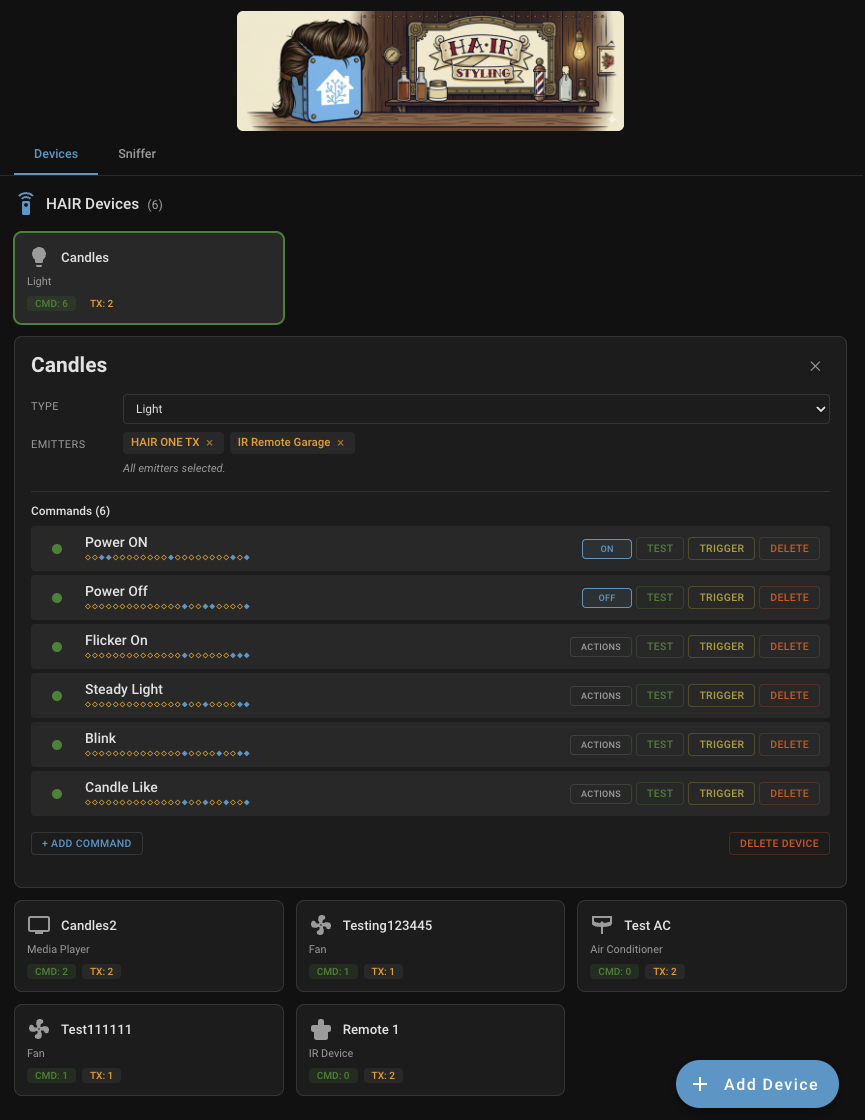
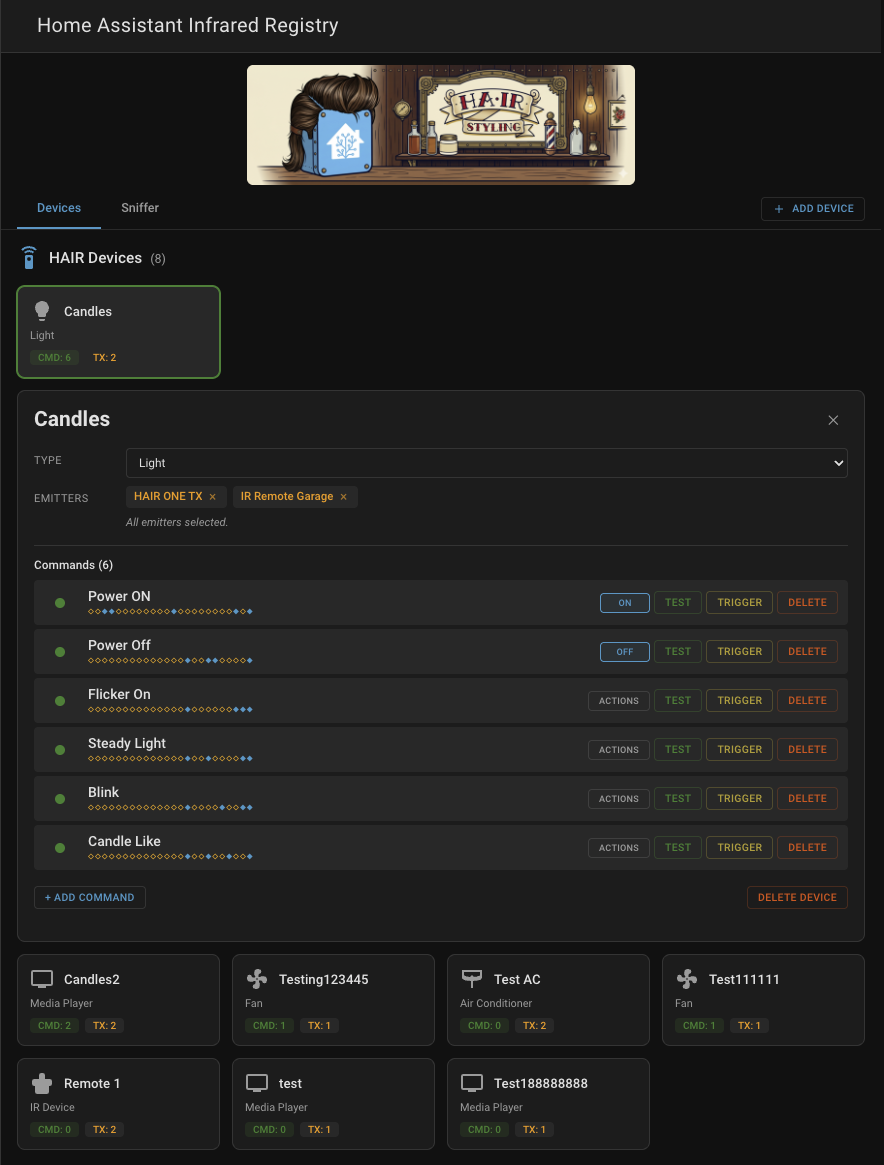
Restructure README: reorder sections, table screenshots, ESPHome RX prominence
- Move Screenshots, Requirements, Installation, Setup above Features
- Add 'No YAML*' footnote linking to ESPHome receiver bridge
- Layout screenshots in markdown tables with column titles
- Replace devices-overview and device-detail screenshots with v0.1.2 UI
- Fix 'floating Add Device button' reference to 'tab bar button'
- Move old screenshots to images/internal/trash/

diff --git a/README.md b/README.md
@@ -6,7 +6,9 @@
 
 A custom Home Assistant integration that provides a full admin interface for infrared device management. Built on HA's native `infrared` platform (2026.4+), HAIR handles capturing, organizing, and controlling IR commands through a single sidebar panel at `/hair`.
 
-No YAML. No code. Works with any IR proxy hardware (ESPHome, Broadlink, etc.).
+No YAML. No code. Works with any IR proxy hardware (ESPHome, Broadlink, etc.).\*
+
+<sub>\* ESPHome receivers require a small YAML bridge until HA ships native IR receive support. See [ESPHome Receiver Setup](#esphome-receiver-setup).</sub>
 
 ## Why HAIR?
 
@@ -20,112 +22,19 @@ HAIR also introduces signal fingerprinting using short/long (S/L) pulse-duration
 
 As HA's IR ecosystem matures (receiver entities are expected in 2026.6-2026.7), HAIR will grow alongside it. The goal is to be the go-to admin tool for anyone with IR-controlled devices in their home.
 
-## Features
-
-**Signal Sniffer** - Passive IR listener that runs in the background. Every IR transmission your receivers detect is captured, fingerprinted, and grouped by source device. Signals are deduplicated automatically: press the same button ten times and you see one signal with a hit count of ten. Repeat frames (sent when you hold a button down) are filtered out so only actual command signals appear. The Sniffer shows you what remotes are active in your home and which buttons are being pressed, all in real time.
-
-**Device Management** - Create profiles for your IR-controlled devices (TVs, ACs, fans, lights, switches, screens). Assign captured signals as named commands from a device-type-aware template list, or enter custom names. Each device gets native HA entities automatically based on its type.
-
-**Action Mapping** - Explicitly bind IR commands to HA entity features through a popover UI. When you map a command to "Volume Up," the media_player entity knows to call that command when the HA volume service is used. Features are only exposed when commands are mapped, so your entities stay clean.
-
-**Triggers** - Turn any IR signal into a native HA event entity. Create a trigger from a learned device command or from an unknown signal in the Sniffer. Each trigger gets an `event` entity under a virtual "HAIR Triggers" device, firing an `ir_command_received` event whenever the matching signal is received. Use triggers to build HA automations that react to physical remote presses (e.g., pressing a TV power button also turns off the room lights). A configurable "min hits" threshold (minimum button presses) lets you require multiple presses within a 5-second window before the trigger fires, which is useful for preventing accidental activations. The Devices tab shows all active triggers with real-time fire animations.
-
-**Emitter Routing & Broadcast Control** - Assign one or more IR emitters to each device with explicit control over how commands are broadcast. Lock a device to a single emitter for room-scoped control (an AC pinned to the bedroom emitter so commands never leak to the living room), or assign multiple emitters for a wide broadcast (a single "TV Power" command fires through emitters in every room simultaneously). Routing is configured per-device, so you can mix tight per-room targeting for some devices with whole-house broadcast for others.
-
-**Command Templates** - Guided setup suggests which commands to capture based on device type. Select from predefined names (Power On, Volume Up, Mode: Cool, etc.) or enter custom names for anything not in the list.
-
-## Entity Platforms
-
-Devices automatically get native HA entities based on their type:
-
-| Type | HA Entity | Controls |
-|------|-----------|----------|
-| Media Player | `media_player` | Power, volume, mute, source, channels, navigation, transport |
-| AC | `climate` | HVAC modes, temperature presets, fan modes |
-| Fan | `fan` | Power, speed stepping, oscillate |
-| Light | `light` | On/off, brightness stepping |
-| Switch | `switch` | On/off |
-| Screen | `cover` | Open, close, stop |
-| Other | `remote` | Generic IR command sender |
-
-Every device also gets a `remote` entity for sending arbitrary Pronto hex codes and a `button` entity for each learned command. The button entities give you one-tap access to any IR command from dashboards, automations, or scripts, regardless of device type.
-
-Triggers create `event` entities under a shared "HAIR Triggers" device. Each trigger entity fires an `ir_command_received` event when its signal is detected, making it available as an automation trigger in HA's automation editor.
-
-Entity features are driven by explicit action mappings. A media_player only exposes volume control if you map commands to the volume actions. This keeps your entities clean and avoids exposing features your remote doesn't support.
-
 ## Screenshots
 
-<p align="center">
-  <img src="images/screenshots/devices-overview.png" alt="Devices overview showing HAIR Devices, Triggers, Emitters, Receivers, and Proxies" width="880" />
-</p>
+| Devices Overview | Device Detail |
+|:---:|:---:|
+| ![Devices overview showing HAIR Devices, Triggers, Emitters, Receivers, and Proxies](images/screenshots/devices-overview.png) | ![Device detail with learned commands, S/L fingerprints, and trigger buttons](images/screenshots/device-detail.png) |
 
-<p align="center">
-  <img src="images/screenshots/device-detail.png" alt="Device detail with learned commands, S/L fingerprints, and trigger buttons" width="430" />
-  <img src="images/screenshots/action-mapping.png" alt="Action mapping popover for binding commands to HA entity features" width="430" />
-</p>
+| Action Mapping | Sniffer |
+|:---:|:---:|
+| ![Action mapping popover for binding commands to HA entity features](images/screenshots/action-mapping.png) | ![Sniffer showing captured signals with S/L diamond fingerprints, trigger buttons, and hit counts](images/screenshots/sniffer-signals.png) |
 
-<p align="center">
-  <img src="images/screenshots/sniffer-signals.png" alt="Sniffer showing captured signals with S/L diamond fingerprints, trigger buttons, and hit counts" width="880" />
-</p>
-
-<p align="center">
-  <img src="images/screenshots/assign-dialog.png" alt="Assign dialog for mapping a captured signal to a device command" width="280" />
-  <img src="images/screenshots/trigger-dialog.png" alt="Create Trigger dialog with S/L diamond pattern and min hits setting" width="280" />
-  <img src="images/screenshots/promote-dialog.png" alt="Promote dialog for creating a new HAIR device from an unknown remote" width="280" />
-</p>
-
-## Using HAIR
-
-### The Devices Tab
-
-The main view shows five sections:
-
-**HAIR Devices** - Your managed IR device profiles. Each card shows the device name, type, command count, and how many emitters are assigned. Click a device to expand its detail view inline, where you can change the device type, manage emitters, and see all learned commands with their S/L diamond fingerprint patterns. From here you can test commands, delete them, or assign action mappings.
-
-**Triggers** - Active IR triggers that fire HA event entities when their signal is detected. Each trigger card shows the trigger name with a lightning bolt icon. When a trigger fires, the card flashes with an amber glow animation in real time.
-
-**Emitters** - Your IR transmitter hardware (e.g., ESPHome infrared entities). These are the physical IR LEDs that send commands. Each emitter card shows its entity ID and a TX badge.
-
-**Receivers** - Your IR receiver hardware. These feed captured signals into the Sniffer. Each receiver card shows its source integration and an RX badge.
-
-**Proxies** - Hardware devices that have both TX and RX capabilities. A single ESPHome board with an IR LED and an IR receiver shows up here with both TX and RX badges.
-
-### The Sniffer Tab
-
-The Sniffer is a passive listener that shows every IR signal your receivers pick up. Signals are grouped by source device (identified by carrier frequency and preamble fingerprint) and displayed with hit counts, signal counts, and last-seen timestamps.
-
-Each source device row can be expanded to show individual signals with their S/L diamond fingerprint. From here you can assign a signal directly to a HAIR device as a named command, or promote an unknown source device into a full HAIR device profile. Before promoting, click the pencil button on the source device row to give it a custom name — otherwise the new device inherits the auto-generated source name (e.g., "Unknown Remote 1"). Setting the name first means the promoted device lands in your Devices tab already labeled correctly.
-
-Devices already managed by HAIR are tagged with a "HAIR Device" badge. You can dismiss noisy sources (like a neighbor's remote leaking through a window) and bring them back later with the "Show Dismissed" toggle.
-
-### Adding a Device
-
-There are two ways to add a device.
-
-**From scratch:** Click the floating "Add Device" button on the Devices tab. Enter a name, pick a device type, and select which IR emitters should broadcast commands for this device. HAIR creates the device profile and the corresponding HA entities immediately.
-
-**From the Sniffer (promote an unknown source):** When HAIR detects a remote it doesn't recognize, it appears in the Sniffer as an unknown source device. Click the pencil button on the source row to give it a custom name first, then promote it to a full HAIR device. Setting the name before promoting means your new device shows up in the Devices tab already labeled the way you want it, instead of carrying the auto-generated "Unknown Remote N" name forward. This path is ideal when you have the physical remote in hand and want to capture its signals first.
-
-### Learning Commands
-
-Navigate to the Sniffer tab and press buttons on your physical remote. HAIR captures each signal in real time. Expand the source device row, then click on a signal to assign it to one of your HAIR devices. Pick a command name from the device-type-aware template list (e.g., "Power On," "Volume Up," "Mode: Cool") or enter a custom name.
-
-### Action Mapping
-
-After learning commands, open a device's detail view and click the "ACTIONS" badge on any command row. A popover shows all available actions for that device type. Pick an action to bind it to that command. For example, mapping "Power On" to the `turn_on` action means the HA media_player's power button will fire that IR command. Actions already mapped to other commands are shown with their current assignment so you can reassign with a single click.
-
-### Triggers
-
-Triggers let you use incoming IR signals as automation triggers in Home Assistant. There are two ways to create a trigger.
-
-From a device command: expand a device in the Devices tab and click the trigger button on any command row. This creates a trigger linked to that command's signal. If a trigger already exists for that command, the button opens the trigger in edit mode instead.
-
-From the Sniffer: expand an unknown device and click the trigger button on any signal row. This creates a trigger from the raw signal fingerprint, which is useful for signals you want to react to without assigning them to a HAIR device.
-
-Each trigger has a configurable "min hits" value (minimum button presses, 1 to 10) that controls how many times the signal must be received within a 5-second window before the trigger fires. Setting this to 2 or 3 is useful for preventing triggers from firing on stray or accidental presses.
-
-Active triggers appear in the Triggers section at the bottom of the Devices tab. When a trigger fires, its card flashes with an amber glow animation. Each trigger creates an `event` entity (e.g., `event.hair_triggers_tv_power`) that you can use directly in HA's automation editor as a trigger condition.
+| Assign Signal | Create Trigger | Promote Device |
+|:---:|:---:|:---:|
+| ![Assign dialog for mapping a captured signal to a device command](images/screenshots/assign-dialog.png) | ![Create Trigger dialog with S/L diamond pattern and min hits setting](images/screenshots/trigger-dialog.png) | ![Promote dialog for creating a new HAIR device from an unknown remote](images/screenshots/promote-dialog.png) |
 
 ## Requirements
 
@@ -181,6 +90,92 @@ remote_receiver:
 The `on_pronto` trigger catches every IR signal regardless of protocol (NEC, Samsung, Sony, RC-5, etc.) and fires it as a `homeassistant.event` on the HA bus. HAIR's Signal Monitor subscribes to these events automatically.
 
 This bridge is temporary. When HA ships `InfraredReceiverEntity`, HAIR will migrate to the official `infrared.async_subscribe_receiver()` API and no ESPHome YAML customization will be needed. The existing `ir_rf_proxy` TX configuration is unaffected by this change.
+
+## Features
+
+**Signal Sniffer** - Passive IR listener that runs in the background. Every IR transmission your receivers detect is captured, fingerprinted, and grouped by source device. Signals are deduplicated automatically: press the same button ten times and you see one signal with a hit count of ten. Repeat frames (sent when you hold a button down) are filtered out so only actual command signals appear. The Sniffer shows you what remotes are active in your home and which buttons are being pressed, all in real time.
+
+**Device Management** - Create profiles for your IR-controlled devices (TVs, ACs, fans, lights, switches, screens). Assign captured signals as named commands from a device-type-aware template list, or enter custom names. Each device gets native HA entities automatically based on its type.
+
+**Action Mapping** - Explicitly bind IR commands to HA entity features through a popover UI. When you map a command to "Volume Up," the media_player entity knows to call that command when the HA volume service is used. Features are only exposed when commands are mapped, so your entities stay clean.
+
+**Triggers** - Turn any IR signal into a native HA event entity. Create a trigger from a learned device command or from an unknown signal in the Sniffer. Each trigger gets an `event` entity under a virtual "HAIR Triggers" device, firing an `ir_command_received` event whenever the matching signal is received. Use triggers to build HA automations that react to physical remote presses (e.g., pressing a TV power button also turns off the room lights). A configurable "min hits" threshold (minimum button presses) lets you require multiple presses within a 5-second window before the trigger fires, which is useful for preventing accidental activations. The Devices tab shows all active triggers with real-time fire animations.
+
+**Emitter Routing & Broadcast Control** - Assign one or more IR emitters to each device with explicit control over how commands are broadcast. Lock a device to a single emitter for room-scoped control (an AC pinned to the bedroom emitter so commands never leak to the living room), or assign multiple emitters for a wide broadcast (a single "TV Power" command fires through emitters in every room simultaneously). Routing is configured per-device, so you can mix tight per-room targeting for some devices with whole-house broadcast for others.
+
+**Command Templates** - Guided setup suggests which commands to capture based on device type. Select from predefined names (Power On, Volume Up, Mode: Cool, etc.) or enter custom names for anything not in the list.
+
+## Using HAIR
+
+### The Devices Tab
+
+The main view shows five sections:
+
+**HAIR Devices** - Your managed IR device profiles. Each card shows the device name, type, command count, and how many emitters are assigned. Click a device to expand its detail view inline, where you can change the device type, manage emitters, and see all learned commands with their S/L diamond fingerprint patterns. From here you can test commands, delete them, or assign action mappings.
+
+**Triggers** - Active IR triggers that fire HA event entities when their signal is detected. Each trigger card shows the trigger name with a lightning bolt icon. When a trigger fires, the card flashes with an amber glow animation in real time.
+
+**Emitters** - Your IR transmitter hardware (e.g., ESPHome infrared entities). These are the physical IR LEDs that send commands. Each emitter card shows its entity ID and a TX badge.
+
+**Receivers** - Your IR receiver hardware. These feed captured signals into the Sniffer. Each receiver card shows its source integration and an RX badge.
+
+**Proxies** - Hardware devices that have both TX and RX capabilities. A single ESPHome board with an IR LED and an IR receiver shows up here with both TX and RX badges.
+
+### The Sniffer Tab
+
+The Sniffer is a passive listener that shows every IR signal your receivers pick up. Signals are grouped by source device (identified by carrier frequency and preamble fingerprint) and displayed with hit counts, signal counts, and last-seen timestamps.
+
+Each source device row can be expanded to show individual signals with their S/L diamond fingerprint. From here you can assign a signal directly to a HAIR device as a named command, or promote an unknown source device into a full HAIR device profile. Before promoting, click the pencil button on the source device row to give it a custom name -- otherwise the new device inherits the auto-generated source name (e.g., "Unknown Remote 1"). Setting the name first means the promoted device lands in your Devices tab already labeled correctly.
+
+Devices already managed by HAIR are tagged with a "HAIR Device" badge. You can dismiss noisy sources (like a neighbor's remote leaking through a window) and bring them back later with the "Show Dismissed" toggle.
+
+### Adding a Device
+
+There are two ways to add a device.
+
+**From scratch:** Click the "Add Device" button in the tab bar on the Devices tab. Enter a name, pick a device type, and select which IR emitters should broadcast commands for this device. HAIR creates the device profile and the corresponding HA entities immediately.
+
+**From the Sniffer (promote an unknown source):** When HAIR detects a remote it doesn't recognize, it appears in the Sniffer as an unknown source device. Click the pencil button on the source row to give it a custom name first, then promote it to a full HAIR device. Setting the name before promoting means your new device shows up in the Devices tab already labeled the way you want it, instead of carrying the auto-generated "Unknown Remote N" name forward. This path is ideal when you have the physical remote in hand and want to capture its signals first.
+
+### Learning Commands
+
+Navigate to the Sniffer tab and press buttons on your physical remote. HAIR captures each signal in real time. Expand the source device row, then click on a signal to assign it to one of your HAIR devices. Pick a command name from the device-type-aware template list (e.g., "Power On," "Volume Up," "Mode: Cool") or enter a custom name.
+
+### Action Mapping
+
+After learning commands, open a device's detail view and click the "ACTIONS" badge on any command row. A popover shows all available actions for that device type. Pick an action to bind it to that command. For example, mapping "Power On" to the `turn_on` action means the HA media_player's power button will fire that IR command. Actions already mapped to other commands are shown with their current assignment so you can reassign with a single click.
+
+### Triggers
+
+Triggers let you use incoming IR signals as automation triggers in Home Assistant. There are two ways to create a trigger.
+
+From a device command: expand a device in the Devices tab and click the trigger button on any command row. This creates a trigger linked to that command's signal. If a trigger already exists for that command, the button opens the trigger in edit mode instead.
+
+From the Sniffer: expand an unknown device and click the trigger button on any signal row. This creates a trigger from the raw signal fingerprint, which is useful for signals you want to react to without assigning them to a HAIR device.
+
+Each trigger has a configurable "min hits" value (minimum button presses, 1 to 10) that controls how many times the signal must be received within a 5-second window before the trigger fires. Setting this to 2 or 3 is useful for preventing triggers from firing on stray or accidental presses.
+
+Active triggers appear in the Triggers section at the bottom of the Devices tab. When a trigger fires, its card flashes with an amber glow animation. Each trigger creates an `event` entity (e.g., `event.hair_triggers_tv_power`) that you can use directly in HA's automation editor as a trigger condition.
+
+## Entity Platforms
+
+Devices automatically get native HA entities based on their type:
+
+| Type | HA Entity | Controls |
+|------|-----------|----------|
+| Media Player | `media_player` | Power, volume, mute, source, channels, navigation, transport |
+| AC | `climate` | HVAC modes, temperature presets, fan modes |
+| Fan | `fan` | Power, speed stepping, oscillate |
+| Light | `light` | On/off, brightness stepping |
+| Switch | `switch` | On/off |
+| Screen | `cover` | Open, close, stop |
+| Other | `remote` | Generic IR command sender |
+
+Every device also gets a `remote` entity for sending arbitrary Pronto hex codes and a `button` entity for each learned command. The button entities give you one-tap access to any IR command from dashboards, automations, or scripts, regardless of device type.
+
+Triggers create `event` entities under a shared "HAIR Triggers" device. Each trigger entity fires an `ir_command_received` event when its signal is detected, making it available as an automation trigger in HA's automation editor.
+
+Entity features are driven by explicit action mappings. A media_player only exposes volume control if you map commands to the volume actions. This keeps your entities clean and avoids exposing features your remote doesn't support.
 
 ## How It Works
 